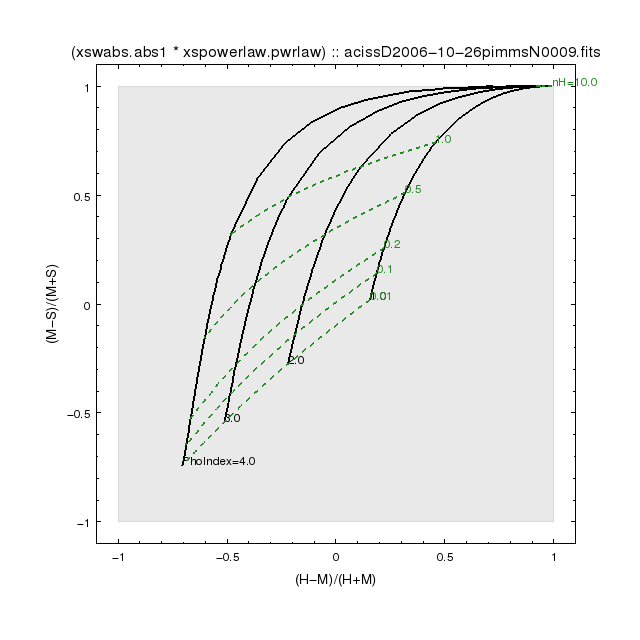
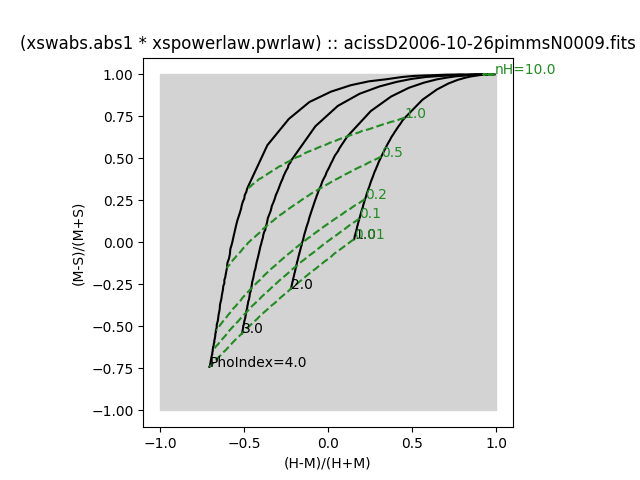
replace chips with matplotlib

diff --git a/color_color.py b/color_color.py
@@ -19,9 +19,8 @@
 #
 
 
-from numpy import interp,arange
+import numpy as np
 import sherpa.astro.ui as ui
-import pychips as chips
 import sys
 sys.tracebacklimit=999
 
@@ -51,10 +50,10 @@ def make_acis_diagonal_rmf( arf ):
 
     n_grp = [1]*n_energies
     n_chan = [1]*n_energies
-    matrix = [1]*n_energies
+    matrix = np.array([1.0]*n_energies)
     f_chan = [ int(e/acis_gain)+1 for e in _emid]
 
-    eb_lo = arange(detchans)*acis_gain
+    eb_lo = np.arange(detchans)*acis_gain
     eb_hi = eb_lo + acis_gain
     eb_lo[0]=0.001
     
@@ -63,8 +62,6 @@ def make_acis_diagonal_rmf( arf ):
 
     rmf = RMF1D( _rmf )
     return(rmf)
-
-
 
 
 class EnergyBand(object):
@@ -94,7 +91,6 @@ class EnergyBand(object):
         return(self._token)
 
 
-
 class ModelParameter(object):
     """Hold info about each model parameter that is to be varied
     
@@ -121,7 +117,8 @@ class ModelParameter(object):
         self._pobj = parameter_object
         self._pgrid = parameter_value_grid
         self._fine_grid_resolution = fine_grid_resolution
-        self._lab_style = ""
+        self._lab_style = {  "color":"black" }
+        self._curve_style = { "color":"black", "linestyle":"-" }
         
 
     def finegrid( self ):
@@ -129,9 +126,10 @@ class ModelParameter(object):
         This is a simple linear interpolation -- you could replace w/ 
         more fancy function but this is good enough for plotting methinks.
         """
-        x_in = arange( len(self._pgrid) )
-        x_out = arange( self._fine_grid_resolution*len(self._pgrid))/float(self._fine_grid_resolution)
-        y_out = interp( x_out, x_in, self._pgrid )
+        x_in = np.arange( len(self._pgrid) )
+        x_out = np.arange( self._fine_grid_resolution*len(self._pgrid))/float(self._fine_grid_resolution)
+        
+        y_out = np.interp( x_out, x_in, self._pgrid )
         
         ymax = self._fine_grid_resolution*(len(self._pgrid)-1)+1
         
@@ -155,12 +153,12 @@ class ModelParameter(object):
         "Get the label style for plotting"
         return(self._lab_style)
 
-    def set_curve_style(self, style):
+    def set_curve_style(self, **style):
         "Set the curve style for plotting"
         self._curve_style = style
 
     
-    def set_label_style(self, style ):
+    def set_label_style(self, **style ):
         "Set the label style for plotting"
         self._lab_style = style
 
@@ -224,7 +222,6 @@ class HardnessRatioAxis(object):
         label = "{}/{}".format(numerator,denominator)
         return(label)
         
-
 
 class ColorColor(object):
     """
@@ -443,7 +440,6 @@ class ColorColor(object):
         return(matrix)
 
 
-
 class ColorColorDiagram(object):
     """
     Object to plot the color-color diagram
@@ -542,62 +538,70 @@ class ColorColorDiagram(object):
         self._cr.write(outfile, clobber=True)
         
 
-    def plot(self):
+    def plot(self, outfile):
         """
-        Plot the color-color diagram to the
+        Plot the color-color diagram -- now using matplotlib
         
         Since this object contains a refernce to the primary and
         secondary parameters, you can set/change the curve and
         label properties before plotting:
         
         >>> matrix = cc( photon_index, absorption, soft, medium, hard, broad)
-        >>> photon_index.set_curve_style("symbol.style=none line.style=solid line.thickness=2" )
-        >>> photon_index.set_label_style("halign=-0.5 valign=0.5")
-        >>> absorption.set_curve_style("symbol.style=none line.style=shortdash line.thickness=2 line.color=forest")
-        >>> absorption.set_label_style("halign=-0.5 valign=0.5 color=forest")
+        >>> photon_index.set_curve_style(marker="", color="green", linestyle="-", linewidth=2)
+        >>> photon_index.set_label_style(color="green")
+        >>> absorption.set_curve_style(marker="", color="black", linestyle="-.")
+        >>> absorption.set_label_style(color="black")
         >>> matrix.plot()        
         """
+        import matplotlib.pylab as plt
 
-        # Plot 1st model parameter curves
-        
+        # Plot 1st model parameter curves        
         for a1 in self.pri_param.grid:
             xx = self.matrix[a1,None][0]
             yy = self.matrix[a1,None][1]
-            chips.add_curve(xx,yy, self.pri_param.curve_style)
+
+            plt.plot(xx,yy,**self.pri_param.curve_style )
             
             if a1 == self.pri_param.grid[-1]:
                 lab = "{}={}".format(self.pri_param.obj.name, a1)
             else:
                 lab = "{}".format(a1)
-            chips.add_label( xx[0], yy[0], lab, self.pri_param.label_style)
+            
+            plt.text( xx[0], yy[0], lab, **self.pri_param.label_style)
 
         # Plot 2nd model parameter curves
         for a2 in self.sec_param.grid:
             xx = self.matrix[None,a2][0]
             yy = self.matrix[None,a2][1]
-            chips.add_curve(xx,yy, self.sec_param.curve_style)
+            plt.plot(xx,yy, **self.sec_param.curve_style)
 
             if a2 == self.sec_param.grid[-1]:
                 lab = "{}={}".format(self.sec_param.obj.name, a2)
             else:
                 lab = "{}".format(a2)
-            chips.add_label( xx[0], yy[0], lab, self.sec_param.label_style)
+            plt.text( xx[0], yy[0], lab, **self.sec_param.label_style)
 
         # Add labels and limits
-        chips.limits(chips.XY_AXIS, -1.1, 1.1)
-        chips.set_data_aspect_ratio("1:1")
-        chips.set_plot_xlabel( self.cc.xx.label )
-        chips.set_plot_ylabel( self.cc.yy.label)
-        chips.set_plot_title( "{} :: {}".format( self.cc.model.name, self.cc.arffile.replace("_",r"\_")))
+        plt.xlim(-1.1, 1.1)
+        plt.ylim(-1.1, 1.1)
+        
+        plt.gca().set_aspect('equal', 'box')
+
+        plt.xlabel(self.cc.xx.label)
+        plt.ylabel(self.cc.yy.label)
+        plt.title( "{} :: {}".format( self.cc.model.name, self.cc.arffile))
+
         if self.square:
-            chips.add_region( [-1,1, 1, -1], [-1,-1, 1,1] )        
+            px,py = ( [-1,1, 1, -1], [-1,-1, 1,1] )        
         else:
-            chips.add_region( [1, -1, 0], [0, 1, -1 ])
-        chips.set_region( "depth=99 fill.color=gray edge.color=gray opacity=0.35")
+            px,py = ( [1, -1, 0], [0, 1, -1 ])
+        plt.fill( px, py, color="lightgray")
+        
+        plt.savefig(outfile)
 
 
 toolname = "color_color"
-__revision__ = "22 September 2017"
+__revision__ = "20 December 2019"
 
 import ciao_contrib.logger_wrapper as lw
 lw.initialize_logger(toolname)
@@ -609,20 +613,21 @@ def tool():
     arffile = "acissD2006-10-26pimmsN0009.fits"
     rmffile = ""
     param1 = "pwrlaw.PhoIndex"
-    param1_grid = "1,2,3,4"
+    param1_grid = "0.1,0.2,0.5,1,1.5,2,3,4"
     param2 = "abs1.nH"
     param2_grid = "0.01,0.1,0.2,0.5,1,10"
     soft = "csc" # "0.5:1.2"
     medium = "csc" # "1.2:2.0"
     hard = "csc" # "2.0:7.0"
-    broad= "csc" # ""
+    broad= "none" # "csc" # ""
+    finegrid_sample=20
     outfile="goo.fits"
     clobber=True
+    out_plot = "foo.png"
     verbose=0
     
 
     from ciao_contrib._tools.fileio import outfile_clobber_checks
-
     outfile_clobber_checks( clobber, outfile )
 
     # Setup the ColorColor object first.  Need this
@@ -635,10 +640,10 @@ def tool():
     import stk as stk
     p1 = eval(param1)
     p2 = eval(param2)
-    p1_grid = stk.build(param1_grid)
-    p2_grid = stk.build(param2_grid)
-    mp1 = ModelParameter( p1, p1_grid, fine_grid_resolution=1)
-    mp2 = ModelParameter( p2, p2_grid, fine_grid_resolution=1)
+    p1_grid = [float(x) for x in stk.build(param1_grid)]
+    p2_grid = [float(x) for x in stk.build(param2_grid)]
+    mp1 = ModelParameter( p1, p1_grid, fine_grid_resolution=finegrid_sample)
+    mp2 = ModelParameter( p2, p2_grid, fine_grid_resolution=finegrid_sample)
     
     # Setup the energy bands
     def make_energy( band, token):
@@ -665,9 +670,18 @@ def tool():
     # Go to work
     matrix = cc( mp1, mp2, eL, eM, eH, eT)
     matrix.write( outfile)
+
+    if len(out_plot)>0 and "none" != out_plot.lower():
+        mp1.set_curve_style(color="forestgreen", linestyle="--", marker="")
+        mp2.set_curve_style(color="black", linestyle="-", marker="")
+        mp1.set_label_style(color="forestgreen")
+        mp2.set_label_style(color="black")
+        matrix.plot(out_plot)
+        import matplotlib.pylab as plt
+        plt.show()
     
-    # from ciao_contrib.runtool import add_tool_history
-    # add_tool_history( outfile, toolname, pars, toolversion=__revision__)
+    #from ciao_contrib.runtool import add_tool_history
+    #add_tool_history( outfile, toolname, pars, toolversion=__revision__)
 
 
 
@@ -710,23 +724,20 @@ def test():
     ao19 = ColorColor( mymodel, "acissD2016-11-22pimmsN0019.fits" )
     matrix_19 = ao19( photon_index, absorption, soft, medium, hard, broad)
 
-    photon_index.set_curve_style("symbol.style=none line.style=solid line.thickness=2 stem=PhoIndexLine" )
-    photon_index.set_label_style("halign=0 valign=0 stem=PhoIndexLab")
-    absorption.set_curve_style("symbol.style=none line.style=shortdash line.thickness=2 line.color=forest stem=nHLine")
-    absorption.set_label_style("halign=0 valign=0 color=forest stem=nHLab")
+    photon_index.set_curve_style(marker="", linestyle="-", linewidth=2, color="black")
+    photon_index.set_label_style(color="black")
+    absorption.set_curve_style(marker="", linestyle="-", linewidth=2, color="forestgreen")
+    absorption.set_label_style(color="forestgreen")
 
-    #chips.clear()
-    #chips.add_window( 1024,640)
-    #chips.split(1,2)
-    #chips.set_current_plot("plot1")
     matrix_09.plot()
+    import matplotlib.pylab as plt
+    plt.show()
 
     matrix_09.write('foo.fits')
 
-    #chips.set_current_plot("plot2")
-    #matrix_19.plot()
+    matrix_19.plot()
+    plt.show()
 
-    chips.print_window("cc.png", "export.clobber=True")
 
 
 #test()

diff --git a/README.md b/README.md
@@ -29,9 +29,7 @@ spectral model shape, you can get an estimate of the model **parameters**
 by looking at the color-color diagram.
 
 These routines are dependent on [Sherpa](http://cxc.cfa.harvard.edu/sherpa)
-for the models.  They also use [ChIPS](http://cxc.cfa.harvard.edu/chips) 
-for the plotting; though one could swap in another plotting engine
-with minimal changes.
+for the models. Plotting is done using matplotlib.
 
 
 ## Example
@@ -76,11 +74,11 @@ hm_ms_results = hm_ms( photon_index, absorption, soft, medium, hard, None)
 #
 # Setup plot styles
 #
-photon_index.set_curve_style("symbol.style=none" )
-absorption.set_curve_style("symbol.style=none line.style=shortdash line.color=forest")
-absorption.set_label_style("color=forest")
+photon_index.set_curve_style(marker="", color="black" )
+absorption.set_curve_style(marker="", linestyle="--", color="forestgreen") 
+absorption.set_label_style(color="forestgreen")
 
-hm_ms_results.plot()
+hm_ms_results.plot("color_color.png")
 
 ```
 
